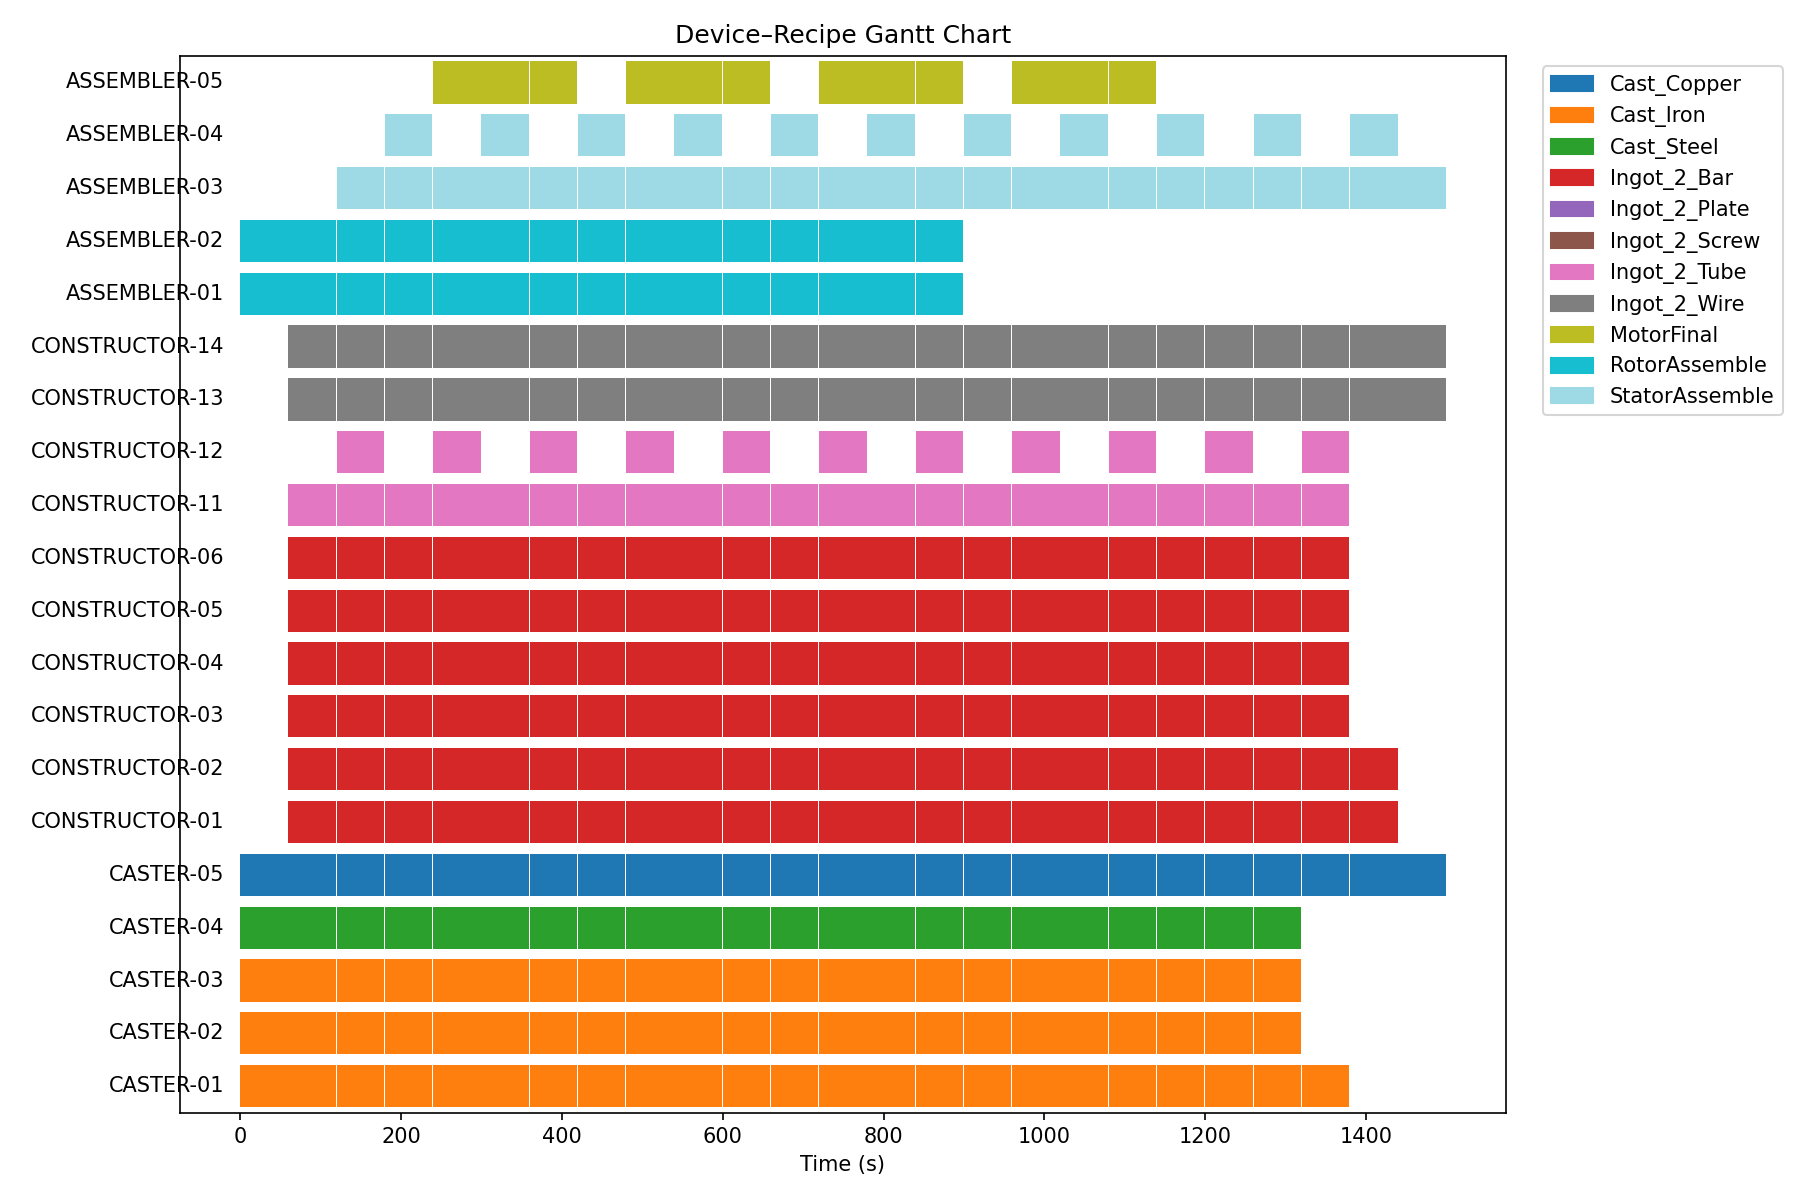
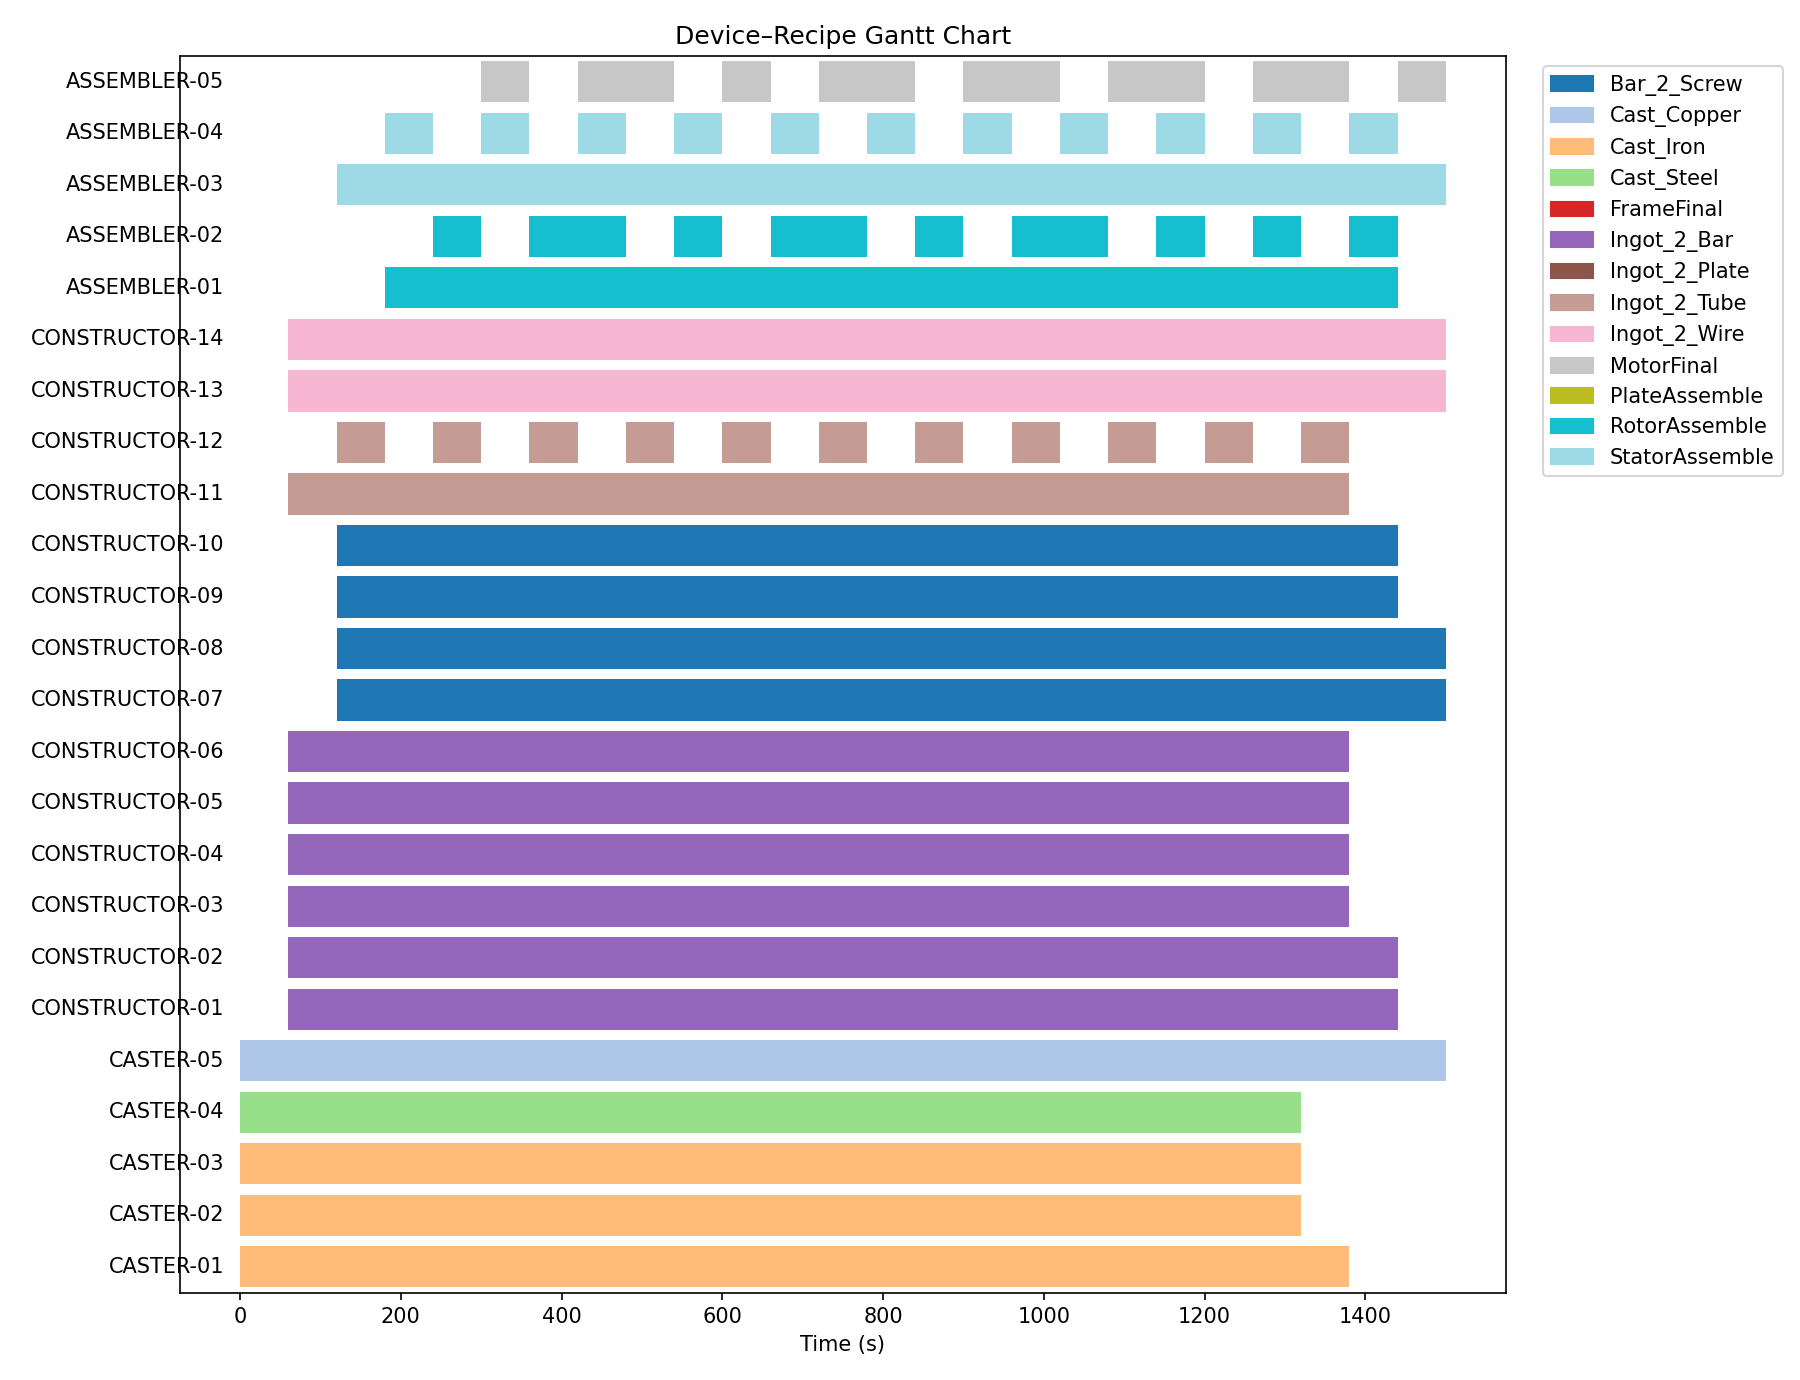
甘特图变为连续的

diff --git a/pycode/factory_sim.py b/pycode/factory_sim.py
@@ -121,6 +121,8 @@ class FactorySim:
             if dev_rt.can_start(self.stock_mng):
                 dev_rt.start_batch(self.stock_mng)
 
+        self.record_dev_status()
+
         self.step_energy_kwh_used = 0.0
         # tick all devices，用 dt 推进
         for rt in self.dev_id_and_dev_runtime_dict.values():
@@ -133,7 +135,7 @@ class FactorySim:
         # 总能耗累加
         self.total_energy_kwh_used += self.step_energy_kwh_used
 
-    def record_status(self):
+    def record_step_status_without_dev(self):
         h = self.history_recorder
         h.log_scalar("time", self.clock)
         h.log_scalar("total_energy", self.total_energy_kwh_used)
@@ -144,6 +146,10 @@ class FactorySim:
         for name, stock_obj in self.stock_mng.get_items():
             h.log_vector("stock", name, stock_obj.quantity)
 
+        h.next_step()
+
+    def record_dev_status(self):
+        h = self.history_recorder
         # 设备运行状态与甘特
         for dev_id, rt in self.dev_id_and_dev_runtime_dict.items():
             h.log_vector("dev_state", dev_id, rt.state.name)
@@ -154,8 +160,6 @@ class FactorySim:
                 if rt.state is DevState.RUNNING
                 else None
             )
-
-        h.next_step()
 
     # ----- reporting -------------------------------------------------------- --
     def snapshot(self) -> str:
@@ -200,5 +204,5 @@ class FactorySim:
         self.do_schedule(action_dict=action_dict)
         self.run_one_step_after_schedule()
         self.check_out_money()
-        self.record_status()
+        self.record_step_status_without_dev()
         pass
